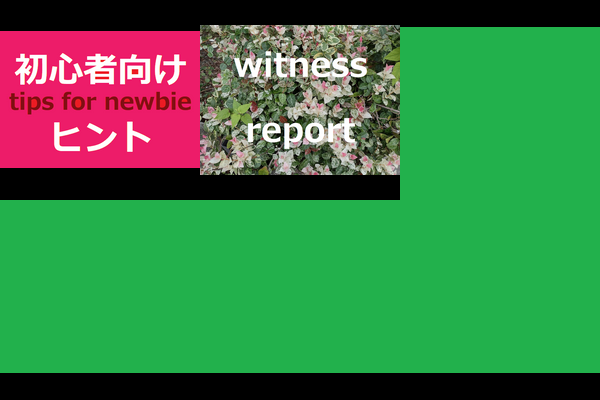
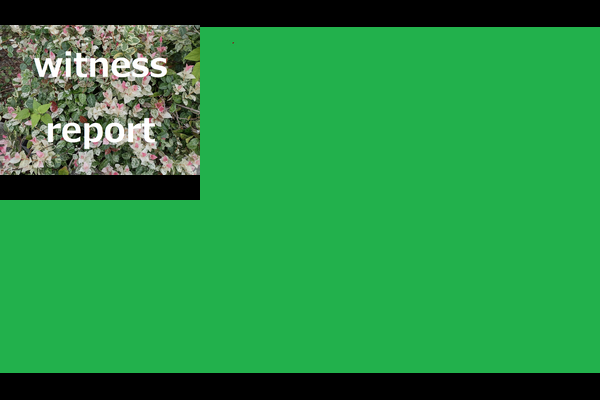
m

Changed region(s): [[0.0, 0.06, 0.69, 0.51]]

diff --git a/sharp3/app.js b/sharp3/app.js
@@ -78,7 +78,7 @@ for (let index = 0; index < urls.length; index++) {
 
 let payload = []
 for (let index = 0; index < urls.length; index++) {
-    a = {input: `./${index + 1}.png`, top: 0, left: 0};
+    a = {input: `./${index + 1}.png`, top: 0, left: index*200};
     payload.push(a);
 }
 
